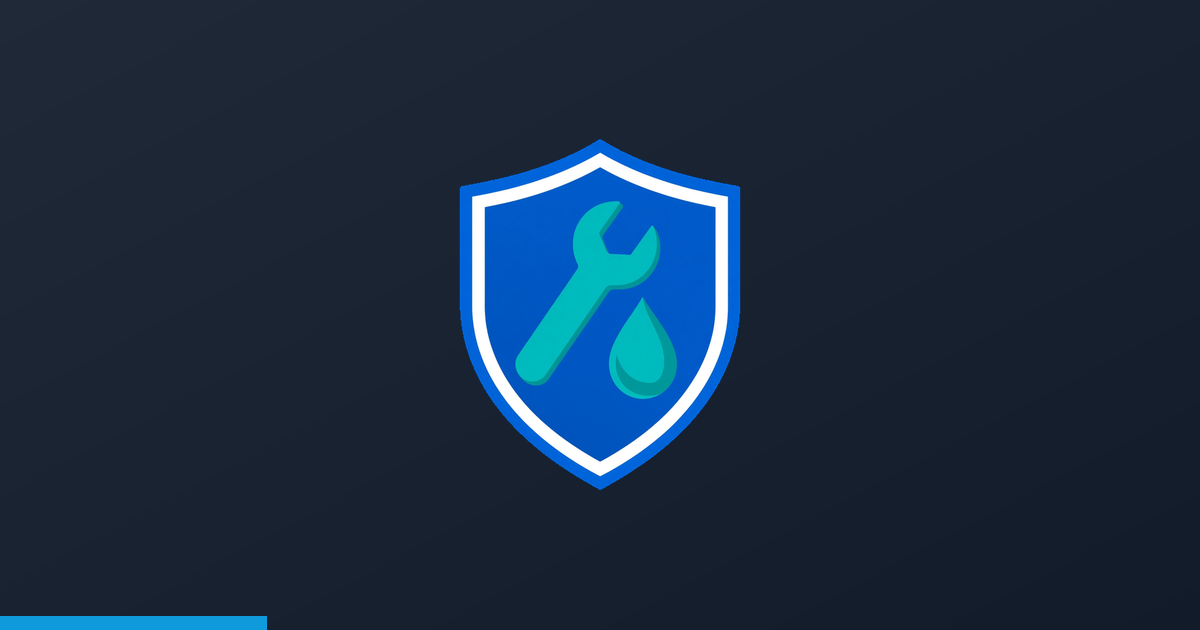
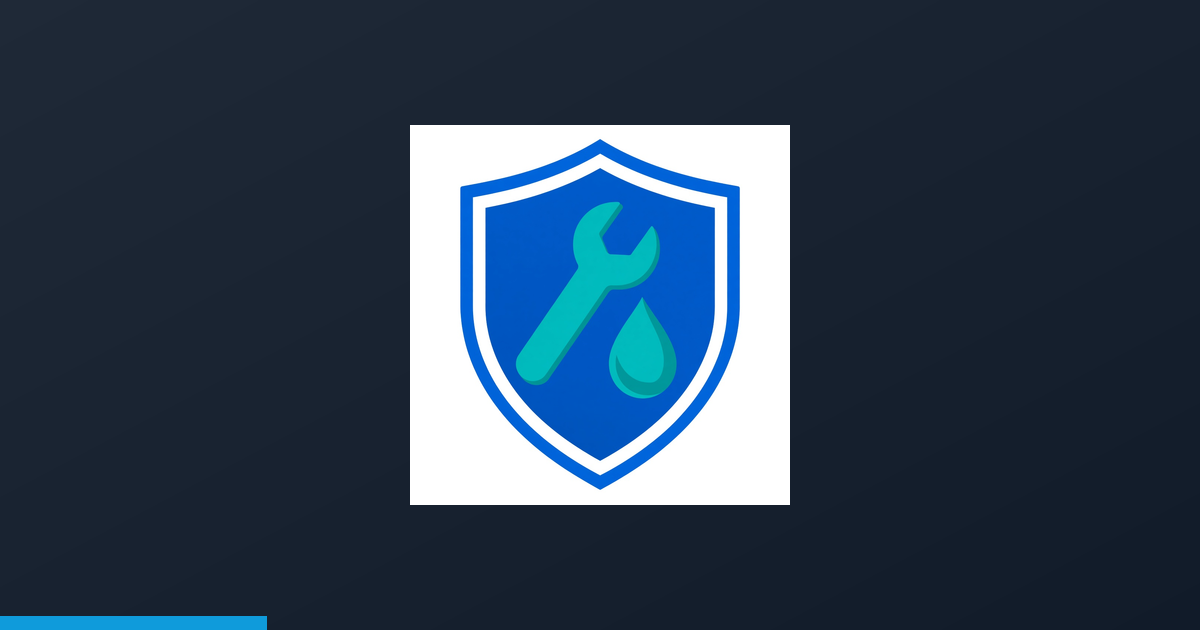
deploy: tecumsehplumbingpros.ca (github actions)

Changed region(s): [[0.3392, 0.181, 0.6783, 0.8143]]

diff --git a/about/index.html b/about/index.html
@@ -150,7 +150,7 @@
 <div class="footer-grid">
 <div>
 <a class="brand footer-brand" href="/">
-<img alt="Tecumseh Plumbing Pros" class="brand__logo" decoding="async" height="64" loading="eager" src="/assets/img/logos-trans/tecumsehplumbingpros.ca.png" width="64"/>
+<img alt="Tecumseh Plumbing Pros" class="brand__logo" decoding="async" height="64" loading="eager" src="/assets/img/logos/tecumsehplumbingpros.ca.png" width="64"/>
 </a>
 <p class="footer-about">Honest, dependable licensed plumbing for Tecumseh, Ontario and the surrounding Essex communities. Licensed, insured, and available 24/7.</p>
 </div>

diff --git a/blog/index.html b/blog/index.html
@@ -103,7 +103,7 @@
 <div class="footer-grid">
 <div>
 <a class="brand footer-brand" href="/">
-<img alt="Tecumseh Plumbing Pros" class="brand__logo" decoding="async" height="64" loading="eager" src="/assets/img/logos-trans/tecumsehplumbingpros.ca.png" width="64"/>
+<img alt="Tecumseh Plumbing Pros" class="brand__logo" decoding="async" height="64" loading="eager" src="/assets/img/logos/tecumsehplumbingpros.ca.png" width="64"/>
 </a>
 <p class="footer-about">Honest, dependable licensed plumbing for Tecumseh, Ontario and the surrounding Essex communities. Licensed, insured, and available 24/7.</p>
 </div>

diff --git a/contact/index.html b/contact/index.html
@@ -175,7 +175,7 @@
 <div class="footer-grid">
 <div>
 <a class="brand footer-brand" href="/">
-<img alt="Tecumseh Plumbing Pros" class="brand__logo" decoding="async" height="64" loading="eager" src="/assets/img/logos-trans/tecumsehplumbingpros.ca.png" width="64"/>
+<img alt="Tecumseh Plumbing Pros" class="brand__logo" decoding="async" height="64" loading="eager" src="/assets/img/logos/tecumsehplumbingpros.ca.png" width="64"/>
 </a>
 <p class="footer-about">Honest, dependable licensed plumbing for Tecumseh, Ontario and the surrounding Essex communities. Licensed, insured, and available 24/7.</p>
 </div>

diff --git a/index.html b/index.html
@@ -325,7 +325,7 @@
 <div class="footer-grid">
 <div>
 <a class="brand footer-brand" href="/">
-<img alt="Tecumseh Plumbing Pros" class="brand__logo" decoding="async" height="64" loading="eager" src="/assets/img/logos-trans/tecumsehplumbingpros.ca.png" width="64"/>
+<img alt="Tecumseh Plumbing Pros" class="brand__logo" decoding="async" height="64" loading="eager" src="/assets/img/logos/tecumsehplumbingpros.ca.png" width="64"/>
 </a>
 <p class="footer-about">Honest, dependable licensed plumbing for Tecumseh, Ontario and the surrounding Essex communities. Licensed, insured, and available 24/7.</p>
 </div>

diff --git a/services/drain-cleaning/index.html b/services/drain-cleaning/index.html
@@ -226,7 +226,7 @@
 <div class="footer-grid">
 <div>
 <a class="brand footer-brand" href="/">
-<img alt="Tecumseh Plumbing Pros" class="brand__logo" decoding="async" height="64" loading="eager" src="/assets/img/logos-trans/tecumsehplumbingpros.ca.png" width="64"/>
+<img alt="Tecumseh Plumbing Pros" class="brand__logo" decoding="async" height="64" loading="eager" src="/assets/img/logos/tecumsehplumbingpros.ca.png" width="64"/>
 </a>
 <p class="footer-about">Honest, dependable licensed plumbing for Tecumseh, Ontario and the surrounding Essex communities. Licensed, insured, and available 24/7.</p>
 </div>

diff --git a/services/fixtures-toilets/index.html b/services/fixtures-toilets/index.html
@@ -226,7 +226,7 @@
 <div class="footer-grid">
 <div>
 <a class="brand footer-brand" href="/">
-<img alt="Tecumseh Plumbing Pros" class="brand__logo" decoding="async" height="64" loading="eager" src="/assets/img/logos-trans/tecumsehplumbingpros.ca.png" width="64"/>
+<img alt="Tecumseh Plumbing Pros" class="brand__logo" decoding="async" height="64" loading="eager" src="/assets/img/logos/tecumsehplumbingpros.ca.png" width="64"/>
 </a>
 <p class="footer-about">Honest, dependable licensed plumbing for Tecumseh, Ontario and the surrounding Essex communities. Licensed, insured, and available 24/7.</p>
 </div>

diff --git a/services/leak-detection/index.html b/services/leak-detection/index.html
@@ -226,7 +226,7 @@
 <div class="footer-grid">
 <div>
 <a class="brand footer-brand" href="/">
-<img alt="Tecumseh Plumbing Pros" class="brand__logo" decoding="async" height="64" loading="eager" src="/assets/img/logos-trans/tecumsehplumbingpros.ca.png" width="64"/>
+<img alt="Tecumseh Plumbing Pros" class="brand__logo" decoding="async" height="64" loading="eager" src="/assets/img/logos/tecumsehplumbingpros.ca.png" width="64"/>
 </a>
 <p class="footer-about">Honest, dependable licensed plumbing for Tecumseh, Ontario and the surrounding Essex communities. Licensed, insured, and available 24/7.</p>
 </div>

diff --git a/services/repiping/index.html b/services/repiping/index.html
@@ -226,7 +226,7 @@
 <div class="footer-grid">
 <div>
 <a class="brand footer-brand" href="/">
-<img alt="Tecumseh Plumbing Pros" class="brand__logo" decoding="async" height="64" loading="eager" src="/assets/img/logos-trans/tecumsehplumbingpros.ca.png" width="64"/>
+<img alt="Tecumseh Plumbing Pros" class="brand__logo" decoding="async" height="64" loading="eager" src="/assets/img/logos/tecumsehplumbingpros.ca.png" width="64"/>
 </a>
 <p class="footer-about">Honest, dependable licensed plumbing for Tecumseh, Ontario and the surrounding Essex communities. Licensed, insured, and available 24/7.</p>
 </div>

diff --git a/services/sump-pumps/index.html b/services/sump-pumps/index.html
@@ -226,7 +226,7 @@
 <div class="footer-grid">
 <div>
 <a class="brand footer-brand" href="/">
-<img alt="Tecumseh Plumbing Pros" class="brand__logo" decoding="async" height="64" loading="eager" src="/assets/img/logos-trans/tecumsehplumbingpros.ca.png" width="64"/>
+<img alt="Tecumseh Plumbing Pros" class="brand__logo" decoding="async" height="64" loading="eager" src="/assets/img/logos/tecumsehplumbingpros.ca.png" width="64"/>
 </a>
 <p class="footer-about">Honest, dependable licensed plumbing for Tecumseh, Ontario and the surrounding Essex communities. Licensed, insured, and available 24/7.</p>
 </div>

diff --git a/services/water-heaters/index.html b/services/water-heaters/index.html
@@ -226,7 +226,7 @@
 <div class="footer-grid">
 <div>
 <a class="brand footer-brand" href="/">
-<img alt="Tecumseh Plumbing Pros" class="brand__logo" decoding="async" height="64" loading="eager" src="/assets/img/logos-trans/tecumsehplumbingpros.ca.png" width="64"/>
+<img alt="Tecumseh Plumbing Pros" class="brand__logo" decoding="async" height="64" loading="eager" src="/assets/img/logos/tecumsehplumbingpros.ca.png" width="64"/>
 </a>
 <p class="footer-about">Honest, dependable licensed plumbing for Tecumseh, Ontario and the surrounding Essex communities. Licensed, insured, and available 24/7.</p>
 </div>

diff --git a/services/water-softeners/index.html b/services/water-softeners/index.html
@@ -226,7 +226,7 @@
 <div class="footer-grid">
 <div>
 <a class="brand footer-brand" href="/">
-<img alt="Tecumseh Plumbing Pros" class="brand__logo" decoding="async" height="64" loading="eager" src="/assets/img/logos-trans/tecumsehplumbingpros.ca.png" width="64"/>
+<img alt="Tecumseh Plumbing Pros" class="brand__logo" decoding="async" height="64" loading="eager" src="/assets/img/logos/tecumsehplumbingpros.ca.png" width="64"/>
 </a>
 <p class="footer-about">Honest, dependable licensed plumbing for Tecumseh, Ontario and the surrounding Essex communities. Licensed, insured, and available 24/7.</p>
 </div>

diff --git a/404.html b/404.html
@@ -85,7 +85,7 @@
 <div class="footer-grid">
 <div>
 <a class="brand footer-brand" href="/">
-<img alt="Tecumseh Plumbing Pros" class="brand__logo" decoding="async" height="64" loading="eager" src="/assets/img/logos-trans/tecumsehplumbingpros.ca.png" width="64"/>
+<img alt="Tecumseh Plumbing Pros" class="brand__logo" decoding="async" height="64" loading="eager" src="/assets/img/logos/tecumsehplumbingpros.ca.png" width="64"/>
 </a>
 <p class="footer-about">Honest, dependable licensed plumbing for Tecumseh, Ontario and the surrounding Essex communities. Licensed, insured, and available 24/7.</p>
 </div>
